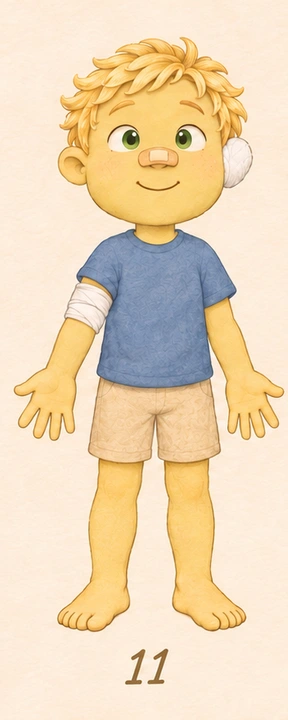
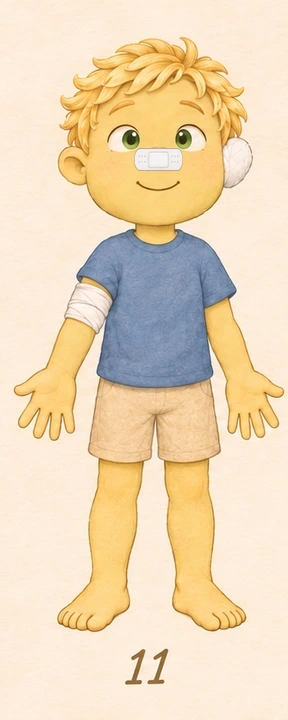
Ajouter le mode classe aux douleurs et rendre les pansements nez/ventre plus visibles

Changed region(s): [[0.4688, 0.1833, 0.6562, 0.2444]]

diff --git a/qui-est-ce-douleurs/app.js b/qui-est-ce-douleurs/app.js
@@ -1,9 +1,28 @@
-import characters from './data.js?v=1';
-import {startGame,chooseCharacter,nextRound} from './logic.js?v=2';
-const $=id=>document.getElementById(id),grid=$('grid');let state,timer=null;
-for(const c of characters){const button=document.createElement('button');button.className='personnage';button.type='button';button.dataset.id=c.id;button.setAttribute('aria-label','Personnage '+c.id);const image=new Image();image.src=c.image;image.alt='';image.decoding='async';image.draggable=false;button.append(image);button.addEventListener('click',()=>choose(c.id));grid.append(button);}
-function render(){const ended=['lost','finished'].includes(state.phase);$('progress').textContent=ended?'Partie terminée':`Question ${state.round+1}/10`;$('score').textContent=`⭐ ${state.score} point${state.score>1?'s':''}`;$('hearts').replaceChildren();for(let i=0;i<3;i++){const heart=document.createElement('span');heart.className='heart'+(i>=state.lives?' lost':'');heart.textContent='♥';heart.style.color='#ca6073';heart.setAttribute('aria-hidden','true');$('hearts').append(heart);}$('hearts').setAttribute('aria-label',`${state.lives} vie${state.lives===1?'':'s'}`);$('description').textContent=state.phase==='finished'?'Bravo, tu as terminé les dix descriptions !':state.rounds[state.round].description;$('hint').textContent=ended?`Ton score : ${state.score}/10. Rejoue pour découvrir d’autres descriptions.`:'Observe les pansements et les bandages.';
+import characters from './data.js?v=3';
+import {startGame,chooseCharacter,nextRound} from './logic.js?v=3';
+const $=id=>document.getElementById(id),grid=$('grid');let state,timer=null,mode=null;
+const eliminated=new Set();
+for(const c of characters){const button=document.createElement('button');button.className='personnage';button.type='button';button.dataset.id=c.id;button.setAttribute('aria-label','Personnage '+c.id);const image=new Image();image.src=c.image+'?v=3';image.alt='';image.decoding='async';image.draggable=false;const back=document.createElement('span');back.className='card-back';back.textContent=c.id;back.setAttribute('aria-hidden','true');button.append(image,back);button.addEventListener('click',()=>choose(c.id));grid.append(button);}
+function render(){const ended=['lost','finished'].includes(state.phase);$('progress').textContent=ended?'Partie terminée':`Question ${state.round+1}/10`;$('score').textContent=`⭐ ${state.score} point${state.score>1?'s':''}`;$('hearts').replaceChildren();for(let i=0;i<5;i++){const heart=document.createElement('span');heart.className='heart'+(i>=state.lives?' lost':'');heart.textContent='♥';heart.style.color='#ca6073';heart.setAttribute('aria-hidden','true');$('hearts').append(heart);}$('hearts').setAttribute('aria-label',`${state.lives} vie${state.lives===1?'':'s'}`);$('description').textContent=state.phase==='finished'?'Bravo, tu as terminé les dix descriptions !':state.rounds[state.round].description;$('hint').textContent=ended?`Ton score : ${state.score}/10. Rejoue pour découvrir d’autres descriptions.`:'Observe les pansements et les bandages.';
 for(const button of grid.children){const id=Number(button.dataset.id),wrong=state.wrongIds.includes(id),correct=state.phase==='correct'&&id===state.rounds[state.round].id,answer=state.phase==='lost'&&id===state.rounds[state.round].id;button.className='personnage'+(wrong?' wrong':'')+(correct?' correct':'')+(answer?' answer':'');button.disabled=state.phase!=='playing'||wrong;button.querySelector('.marker')?.remove();if(wrong||correct||answer){const marker=document.createElement('span');marker.className='marker'+(wrong?' wrong-marker':'');marker.textContent=wrong?'×':'✓';marker.setAttribute('aria-hidden','true');button.append(marker);}}
-const msg=$('message');msg.className='message';if(state.phase==='correct'){msg.textContent='Bravo ! +1 point';msg.classList.add('ok');}else if(state.phase==='lost'){msg.textContent=`Tu as perdu tes trois cœurs. C’était le personnage n° ${state.rounds[state.round].id}.`;msg.classList.add('bad');}else if(state.phase==='finished'){msg.textContent='Une nouvelle partie t’attend !';msg.classList.add('ok');}else if(state.lastChoice!==null){msg.textContent='Essaie encore : tu perds un cœur.';msg.classList.add('bad');}else msg.textContent='';}
-function choose(id){const previous=state;state=chooseCharacter(state,id);if(previous===state)return;render();if(state.phase==='correct')timer=setTimeout(()=>{state=nextRound(state);render();},900);}
-function start(){clearTimeout(timer);state=startGame(characters);render();} $('restart').addEventListener('click',start);start();
+const msg=$('message');msg.className='message';if(state.phase==='correct'){msg.textContent='Bravo ! +1 point';msg.classList.add('ok');}else if(state.phase==='lost'){msg.textContent=`Tu as perdu tes cinq cœurs. C’était le personnage n° ${state.rounds[state.round].id}.`;msg.classList.add('bad');}else if(state.phase==='finished'){msg.textContent='Une nouvelle partie t’attend !';msg.classList.add('ok');}else if(state.lastChoice!==null){msg.textContent='Essaie encore : tu perds un cœur.';msg.classList.add('bad');}else msg.textContent='';}
+function choose(id){if(mode==='class'){eliminated.has(id)?eliminated.delete(id):eliminated.add(id);renderClass();return;}const previous=state;state=chooseCharacter(state,id);if(previous===state)return;render();if(state.phase==='correct')timer=setTimeout(()=>{state=nextRound(state);render();},900);}
+function start(){clearTimeout(timer);timer=null;state=startGame(characters);render();}
+function renderClass(){
+ for(const button of grid.children){const id=Number(button.dataset.id),turned=eliminated.has(id);button.className='personnage'+(turned?' turned':'');button.disabled=false;button.setAttribute('aria-pressed',String(turned));button.setAttribute('aria-label',`${turned?'Rétablir':'Retourner'} la carte du personnage n° ${id}`);button.querySelector('.marker')?.remove();}
+ const count=characters.length-eliminated.size;$('remaining').textContent=`${count} carte${count===1?'':'s'} visible${count===1?'':'s'}`;
+}
+function setMode(value){
+ if(mode===value)return;clearTimeout(timer);timer=null;mode=value;document.body.classList.toggle('class-view',mode==='class');
+ $('class-mode').setAttribute('aria-pressed',String(mode==='class'));$('solo-mode').setAttribute('aria-pressed',String(mode==='solo'));
+ $('class-tools').hidden=mode!=='class';$('solo-panel').hidden=mode!=='solo';$('solo-stats').hidden=mode!=='solo';
+ $('instructions').textContent=mode==='class'?'Choisissez un personnage en secret, posez vos questions et retournez les cartes éliminées.':'Lis la description, puis clique sur le bon personnage.';
+ $('note').textContent=mode==='class'?'15 personnages · Un clic pour retourner, un autre pour rétablir · À la fin, décrivez le personnage trouvé.':'10 descriptions par partie · 1 point par bonne réponse · 5 cœurs pour toute la partie';
+ if(mode==='class'){eliminated.clear();renderClass();}else{for(const b of grid.children){b.removeAttribute('aria-pressed');b.setAttribute('aria-label','Personnage '+b.dataset.id);}start();}
+}
+$('class-mode').addEventListener('click',()=>setMode('class'));
+$('solo-mode').addEventListener('click',()=>setMode('solo'));
+$('reset').addEventListener('click',()=>{eliminated.clear();renderClass();});
+$('restart').addEventListener('click',start);
+window.addEventListener('pagehide',()=>clearTimeout(timer));
+setMode('class');

diff --git a/qui-est-ce-douleurs/styles.css b/qui-est-ce-douleurs/styles.css
@@ -1,1 +1,2 @@
 :root{font-family:system-ui,-apple-system,Segoe UI,sans-serif;color:#29243c;background:#f6f4ff;font-synthesis:none}*{box-sizing:border-box}body{margin:0}.shell{max-width:1500px;margin:auto;padding:16px 20px 20px}header{display:flex;justify-content:space-between;align-items:center;gap:16px;flex-wrap:wrap;margin-bottom:16px}.back{font-size:13px;color:#705b99;text-decoration:none}.back:hover{text-decoration:underline}h1{font-size:clamp(22px,2.5vw,32px);margin:5px 0;color:#533b8b}h1 span{color:#896ac3}.sub{font-size:14px;color:#615e76;margin:4px 0}.stats{display:flex;gap:16px;align-items:center;font-weight:750;font-size:15px}.hearts{display:flex;gap:4px;font-size:27px}.heart.lost{filter:grayscale(1);opacity:.28}.play-layout{display:grid;grid-template-columns:minmax(0,1fr) 320px;gap:20px;align-items:start}.grid{display:grid;grid-template-columns:repeat(5,minmax(0,1fr));gap:8px}.personnage{position:relative;display:block;min-width:0;height:clamp(165px,calc((100dvh - 175px)/3),290px);padding:0;border:2px solid #d9d4ee;border-radius:12px;overflow:hidden;cursor:pointer;background:#fff6e9;transition:transform .1s,border-color .1s}.personnage img{display:block;width:100%;height:100%;object-fit:contain}.personnage:hover:not(:disabled),.personnage:focus-visible{border-color:#6b50c6;outline:3px solid #cfc3eb;outline-offset:1px;transform:translateY(-1px)}.personnage.correct,.personnage.answer{border:4px solid #269c62}.personnage.wrong{border:3px solid #cf4453;opacity:.55}.personnage:disabled{cursor:default;transform:none}.marker{position:absolute;right:5px;top:5px;background:#258451;color:white;width:26px;height:26px;display:grid;place-items:center;border-radius:50%;font-size:20px;font-weight:800}.marker.wrong-marker{background:#be3d4c}.prompt{position:sticky;top:16px;background:#fff;border:2px solid #d2c8f2;border-radius:18px;padding:23px;box-shadow:0 8px 26px #36306810}.small{font-size:14px;font-weight:750;color:#7158a7;margin-bottom:12px}.description{font-size:clamp(22px,2.1vw,30px);font-weight:750;line-height:1.5;margin:0 0 18px}.hint{font-size:14px;color:#756b82;line-height:1.5}.message{min-height:90px;font-size:16px;font-weight:700;line-height:1.5;margin:22px 0 12px}.message.ok{color:#157b47}.message.bad{color:#ad2639}.btn{border:0;background:#6248ad;color:white;font-size:15px;font-weight:750;padding:12px 18px;border-radius:12px;cursor:pointer;width:100%}.btn:hover{background:#4b358c}.btn:focus-visible{outline:3px solid #b8a6e0;outline-offset:3px}footer{color:#736d87;font-size:12px;margin-top:14px}@media(min-width:1500px){.play-layout{grid-template-columns:minmax(0,1fr) 350px}.personnage{height:clamp(210px,calc((100dvh - 180px)/3),330px)}}@media(max-width:900px){.shell{padding:12px}.play-layout{grid-template-columns:minmax(0,1fr) 265px;gap:12px}.grid{gap:5px}.prompt{padding:17px}.description{font-size:23px}.stats{gap:10px}.personnage{height:clamp(145px,calc((100dvh - 200px)/3),250px)}}@media(max-width:650px){header{gap:8px;margin-bottom:10px}.shell{padding:8px}.stats{width:100%;justify-content:space-between;font-size:13px}.hearts{font-size:23px}.play-layout{display:flex;flex-direction:column-reverse;gap:10px}.grid{width:100%;gap:4px}.personnage{height:auto;aspect-ratio:.42;border-radius:8px}.prompt{position:static;width:100%;padding:12px 15px}.description{font-size:20px;line-height:1.4;margin:3px 0 6px}.small{font-size:12px;margin-bottom:4px}.hint{font-size:12px;margin:6px 0}.message{min-height:24px;font-size:13px;margin:6px 0}.btn{padding:8px;font-size:13px}.prompt .btn{max-width:220px}.marker{width:19px;height:19px;font-size:15px;right:2px;top:2px}footer{font-size:10px}}
+[hidden]{display:none!important}.mode-bar{display:flex;align-items:center;justify-content:space-between;gap:12px;flex-wrap:wrap;margin-bottom:14px}.mode-buttons{display:flex;background:#eae4f6;padding:4px;border-radius:14px;gap:4px}.mode-bar button{font:inherit;font-weight:700;border:0;border-radius:10px;cursor:pointer;padding:10px 16px;background:transparent;color:#624b91}.mode-buttons button[aria-pressed=true]{background:#fff;box-shadow:0 2px 8px #4e3a7019;color:#51368c}.mode-bar button:focus-visible{outline:3px solid #a28bd5;outline-offset:2px}#class-tools{display:flex;align-items:center;gap:18px}#remaining{font-size:14px;color:#716485;font-weight:650}#reset{background:#eae4f6}.class-view .play-layout{display:block}.class-view .shell{max-width:1600px}.class-view .personnage{height:clamp(155px,calc((100dvh - 220px)/3),350px);background:#fff6e9}.card-back{display:none;position:absolute;inset:0;align-items:center;justify-content:center;background:repeating-linear-gradient(45deg,#eee8fa,#eee8fa 14px,#e7def5 14px,#e7def5 28px);color:#8c75ae;font-size:clamp(28px,4vw,54px);font-weight:750}.personnage.turned{border-color:#c7b8df}.personnage.turned img{visibility:hidden}.personnage.turned .card-back{display:flex}@media(max-width:650px){.mode-bar{gap:8px}.mode-bar button{padding:9px 12px;font-size:13px}#class-tools{gap:8px;width:100%;justify-content:space-between}#remaining{font-size:13px}.class-view .personnage{height:auto;aspect-ratio:.42}}@media(prefers-reduced-motion:reduce){.personnage{transition:none}}

diff --git a/qui-est-ce-douleurs/index.html b/qui-est-ce-douleurs/index.html
@@ -1,1 +1,15 @@
-<!doctype html><html lang="fr"><head><meta charset="utf-8"><meta name="viewport" content="width=device-width,initial-scale=1"><meta name="theme-color" content="#f6f4ff"><meta name="description" content="Lis les trois douleurs et retrouve le personnage parmi les quinze portraits."><title>Qui est-ce ? Les douleurs — Mes jeux de français</title><link rel="stylesheet" href="styles.css?v=1"><script type="module" src="app.js?v=2"></script><script src="../fullscreen.js?v=1" data-fle-fullscreen-script defer></script></head><body><main class="shell"><header><div><a class="back" href="../">← Mes jeux de français</a><h1>Qui est-ce ? <span>Les douleurs</span></h1><p class="sub">Lis la description, puis clique sur le bon personnage.</p></div><div class="stats"><span id="progress">Question 1/10</span><span id="score">⭐ 0 point</span><span class="hearts" id="hearts" role="img" aria-label="3 vies"></span></div></header><div class="play-layout"><section class="grid" id="grid" aria-label="Les quinze personnages"></section><aside class="prompt" aria-labelledby="prompt-title"><div class="small" id="prompt-title">À toi de trouver !</div><p class="description" id="description"></p><p class="hint" id="hint">Observe les pansements et les bandages.</p><div class="message" id="message" role="status" aria-live="polite" aria-atomic="true"></div><button class="btn" id="restart" type="button">↻ Nouvelle partie</button></aside></div><footer>10 descriptions par partie · 1 point par bonne réponse · 3 cœurs pour toute la partie</footer><noscript>Active JavaScript pour jouer.</noscript></main></body></html>
+<!doctype html>
+<html lang="fr">
+<head>
+<meta charset="utf-8"><meta name="viewport" content="width=device-width,initial-scale=1"><meta name="theme-color" content="#f6f4ff">
+<meta name="description" content="Jouez en classe avec les quinze cartes à retourner ou retrouvez les personnages en autonomie.">
+<title>Qui est-ce ? Les douleurs — Mes jeux de français</title>
+<link rel="stylesheet" href="styles.css?v=3"><script type="module" src="app.js?v=3"></script><script src="../fullscreen.js?v=1" data-fle-fullscreen-script defer></script>
+</head>
+<body><main class="shell">
+<header><div><a class="back" href="../">← Mes jeux de français</a><h1>Qui est-ce ? <span>Les douleurs</span></h1><p class="sub" id="instructions">Choisissez un personnage en secret, posez vos questions et retournez les cartes éliminées.</p></div>
+<div class="stats" id="solo-stats" hidden><span id="progress">Question 1/10</span><span id="score">⭐ 0 point</span><span class="hearts" id="hearts" role="img" aria-label="5 vies"></span></div></header>
+<nav class="mode-bar" aria-label="Mode de jeu"><div class="mode-buttons"><button type="button" id="class-mode" aria-pressed="true">En classe</button><button type="button" id="solo-mode" aria-pressed="false">En autonomie</button></div><div id="class-tools"><span id="remaining" role="status" aria-live="polite">15 cartes visibles</span><button type="button" id="reset">↻ Tout rétablir</button></div></nav>
+<div class="play-layout"><section class="grid" id="grid" aria-label="Les quinze personnages"></section><aside class="prompt" id="solo-panel" aria-labelledby="prompt-title" hidden><div class="small" id="prompt-title">À toi de trouver !</div><p class="description" id="description"></p><p class="hint" id="hint">Observe les pansements et les bandages.</p><div class="message" id="message" role="status" aria-live="polite" aria-atomic="true"></div><button class="btn" id="restart" type="button">↻ Nouvelle partie</button></aside></div>
+<footer id="note">15 personnages · Un clic pour retourner, un autre pour rétablir · À la fin, décrivez le personnage trouvé.</footer>
+<noscript>Active JavaScript pour jouer.</noscript></main></body></html>

diff --git a/qui-est-ce-douleurs/logic.js b/qui-est-ce-douleurs/logic.js
@@ -3,6 +3,6 @@ export const painKey=pains=>[...pains].sort().join('|');
 export function validateCharacters(characters){if(characters.length!==15)throw Error('La planche doit contenir 15 personnages');const keys=new Set(),ids=new Set();for(const c of characters){if(ids.has(c.id)||c.pains.length!==3||new Set(c.pains).size!==3||c.pains.some(x=>!LOCATIONS[x])||!['Il','Elle'].includes(c.pronoun))throw Error('Personnage invalide');const key=painKey(c.pains);if(keys.has(key))throw Error('Combinaison de douleurs en double');ids.add(c.id);keys.add(key);}return true;}
 export function shuffle(input,random=Math.random){const a=[...input];for(let i=a.length-1;i>0;i--){const j=Math.floor(random()*(i+1));[a[i],a[j]]=[a[j],a[i]];}return a;}
 export function describeCharacter(character,pains=character.pains){const parts=pains.map(x=>LOCATIONS[x]);return `${character.pronoun} a mal ${parts[0]}, ${parts[1]} et ${parts[2]}.`;}
-export function startGame(characters,random=Math.random){validateCharacters(characters);const rounds=shuffle(characters,random).slice(0,10).map(c=>({id:c.id,description:describeCharacter(c,shuffle(c.pains,random))}));return {rounds,round:0,score:0,lives:3,phase:'playing',wrongIds:[],lastChoice:null};}
+export function startGame(characters,random=Math.random){validateCharacters(characters);const rounds=shuffle(characters,random).slice(0,10).map(c=>({id:c.id,description:describeCharacter(c,shuffle(c.pains,random))}));return {rounds,round:0,score:0,lives:5,phase:'playing',wrongIds:[],lastChoice:null};}
 export function chooseCharacter(state,id){if(state.phase!=='playing'||state.wrongIds.includes(id)||!Number.isInteger(id)||id<1||id>15)return state;if(id===state.rounds[state.round].id)return {...state,score:state.score+1,phase:'correct',lastChoice:id};const lives=state.lives-1;return {...state,lives,wrongIds:[...state.wrongIds,id],lastChoice:id,phase:lives?'playing':'lost'};}
 export function nextRound(state){if(state.phase!=='correct')return state;if(state.round===9)return {...state,phase:'finished'};return {...state,round:state.round+1,phase:'playing',wrongIds:[],lastChoice:null};}

diff --git a/qui-est-ce-douleurs/README.md b/qui-est-ce-douleurs/README.md
@@ -1,11 +1,19 @@
 # Qui est-ce ? Les douleurs
 
-Un seul niveau. Les quinze portraits de la planche validée restent affichés. Chaque partie propose dix personnages différents à retrouver en lisant une phrase qui réunit leurs trois douleurs : « Il a mal au genou, à la tête et au doigt. »
+Deux modes utilisent les mêmes quinze portraits numérotés et les mêmes combinaisons de trois douleurs.
 
-Les pronoms suivent les personnages de la planche : numéros impairs « Il », numéros pairs « Elle ». Chaque combinaison de trois douleurs est unique, indépendamment du pronom. Les quinze correspondances proviennent du tableau d’origine et ont été vérifiées visuellement sur le PDF.
+## En classe
 
-Trois cœurs pour la partie entière, un point par bonne réponse. Une erreur retire un cœur ; le même mauvais personnage ne peut pas retirer deux cœurs dans la même question. Après une bonne réponse, la question suivante apparaît automatiquement. À zéro cœur, la partie s’arrête et le bon personnage est indiqué. Le bouton « Nouvelle partie » remet le score et les trois cœurs à zéro/trois et change les questions.
+Mode affiché à l’ouverture. Un élève choisit un personnage en secret, hors de l’interface. Les autres produisent leurs questions à l’oral et retournent manuellement les cartes éliminées. Un second clic rétablit chaque carte ; le bouton Tout rétablir prépare une nouvelle partie. Le nombre de cartes visibles est annoncé. Les numéros restent visibles sur les dos des cartes. À la fin, les élèves décrivent le personnage trouvé. Pas de vies, score, description automatique ni personnage secret sélectionné par l’ordinateur.
 
-Les illustrations sont extraites sans régénération du document fourni « Qui_est_ce_douleurs_15_personnages_index_blanc.pdf », dont les trois pages ont été vérifiées. Les quinze fichiers WebP conservent les bandages blancs, tous les pansements et les numéros d’origine. Aucun renseignement de l’élève n’est envoyé à un service externe.
+## En autonomie
 
-Interface responsive, navigation au clavier, messages accessibles, bouton plein écran commun aux jeux du portail. Tests : `node --test tests/core.test.mjs`. Site statique, sans compilation ni compte.
+Dix personnages différents à retrouver en lisant une phrase qui réunit leurs trois douleurs. Cinq cœurs pour la partie entière ; une erreur retire un cœur, sans double pénalité sur une même carte. Un point par bonne réponse. À zéro cœur, le bon personnage est indiqué. Nouvelle partie change les questions et remet le score et les cinq cœurs à leur valeur initiale.
+
+Les pronoms suivent la planche : numéros impairs Il, numéros pairs Elle. Chaque combinaison est unique, indépendamment du pronom. Changer de mode annule la transition automatique en cours. Entrer en autonomie démarre une nouvelle partie ; revenir en classe rétablit les quinze cartes.
+
+## Images et accessibilité
+
+Les portraits proviennent du document validé Qui_est_ce_douleurs_15_personnages_index_blanc.pdf. Les pansements du nez et du ventre ont été remplacés par un pansement blanc plus contrasté ; celui du nez est légèrement élargi, sans couvrir les yeux ou la bouche. Les autres attributs et numéros sont conservés. Une sauvegarde avant modification est conservée dans tmp/backup-douleurs-20261118.
+
+Navigation au clavier, états des cartes et du mode accessibles, compteur annoncé et bouton plein écran commun au portail. Site statique, sans compte ni compilation. Tests : node --test tests/core.test.mjs et contrôle navigateur des deux modes.
